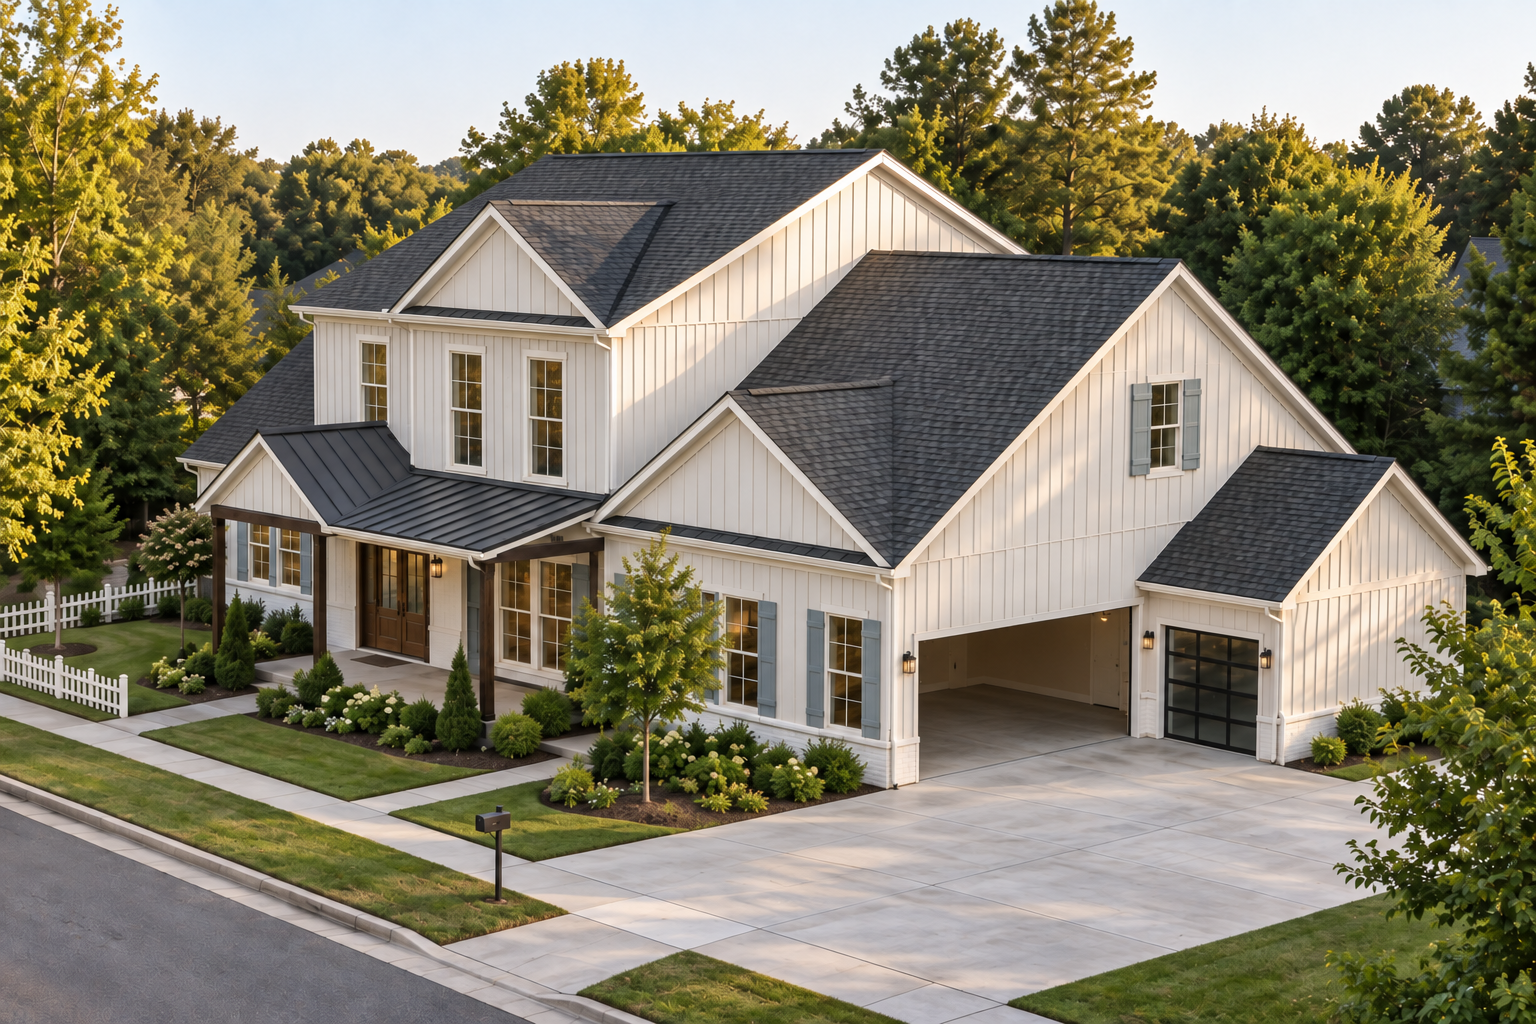
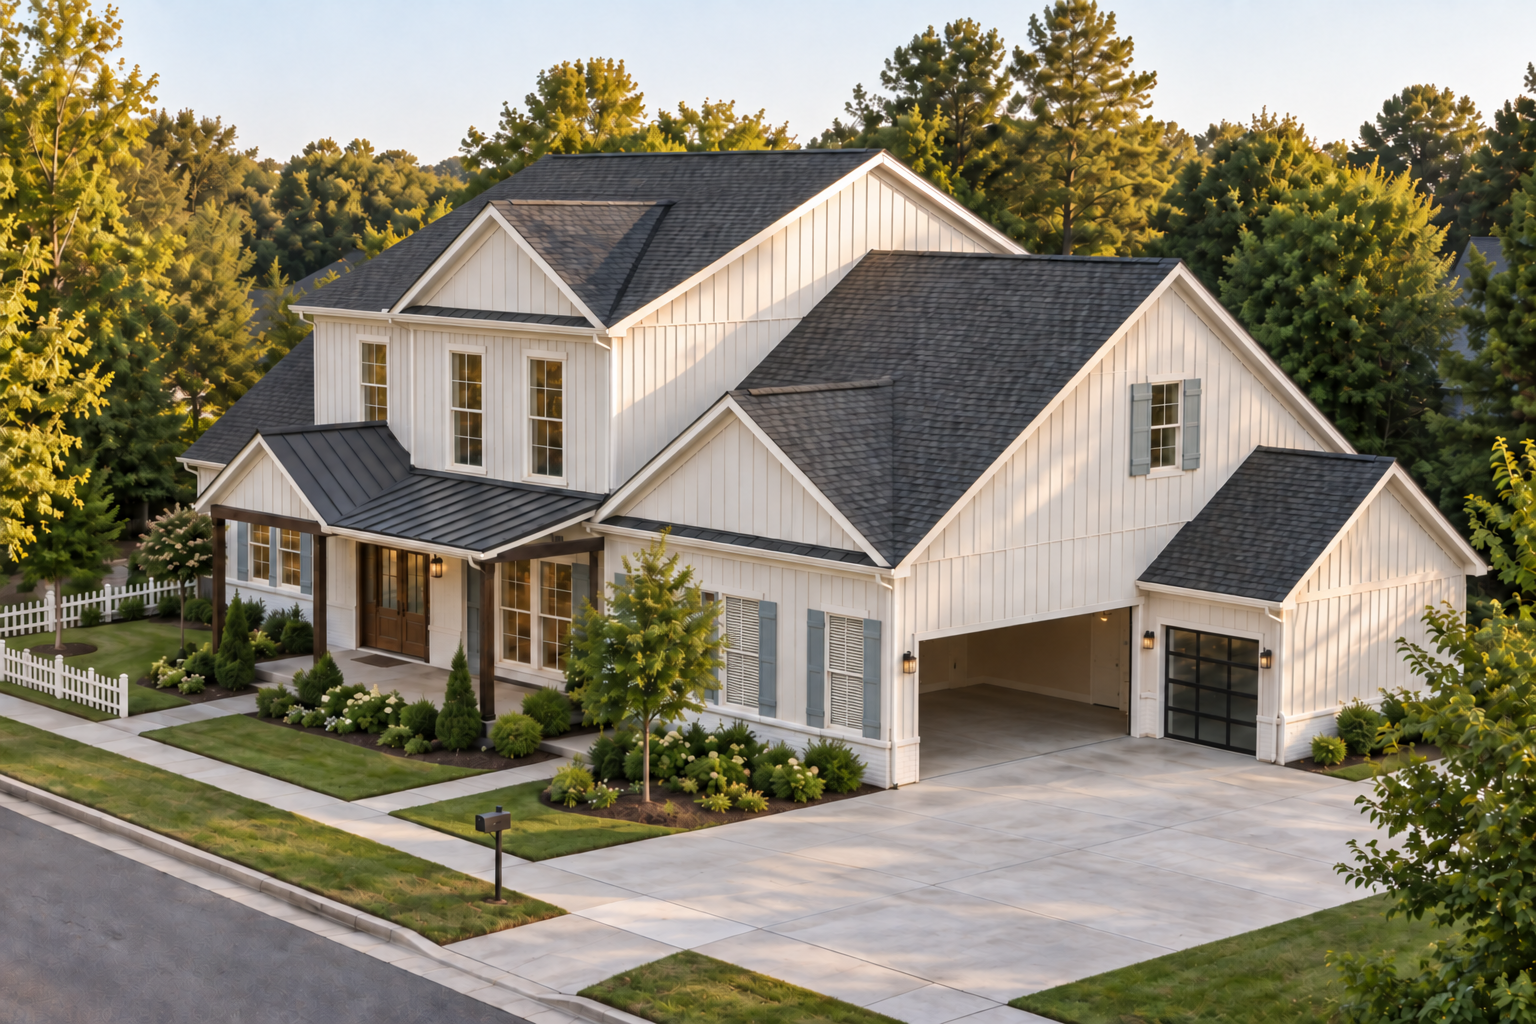
fix(house): close garage window blinds in day and night views

diff --git a/chauffeur/static/house_hybrid/garage-blinds-assets.md b/chauffeur/static/house_hybrid/garage-blinds-assets.md
@@ -1,0 +1,19 @@
+# Garage window blinds
+
+Built-in ImageGen edits, 2026-09-26. Supersedes the previous attempt to depict utility storage through these windows.
+
+Saved outputs in this directory:
+
+- `exterior-model-full-block-empty.png`: closed neutral blinds by day.
+- `exterior-model-full-block-empty-night.png`: closed blinds with diffuse warm glow at night.
+
+Both are the base artwork used for every parking combination. Existing vehicle masks cover only the garage opening and driveway, leaving these windows supplied by the base.
+
+## Day edit prompt
+
+Use case: precise-object-edit. Input is EDIT TARGET, full house exterior artwork. Modify ONLY the TWO narrow ground-floor garage windows immediately LEFT of the open double garage bay, centered at approximately (48%,64%) and (55%,66%). Install fully lowered CLOSED horizontal Venetian blinds behind the existing glazing covering every pane from top to bottom. Slats must be tilted completely shut: absolutely NO interior view, furniture, pictures, decor, silhouettes or visible gaps into the room. Blinds must have clearly visible fine parallel horizontal slat lines, consistent across both windows. Keep existing mullions, trim and exterior shutters in front unchanged, and preserve foreground tree branches. Do not alter any other window. Keep entire remainder of image unchanged: camera, framing, building edges, roofs, lighting, garden, empty driveway and empty garage. Full-frame 1536x1024; no crop, labels or UI. Day: neutral off-white closed blinds, softly shaded behind glass, no artificial glow.
+
+## Night edit prompt
+
+Use case: precise-object-edit. Input is EDIT TARGET, full house exterior artwork. Modify ONLY the TWO narrow ground-floor garage windows immediately LEFT of the open double garage bay, centered at approximately (48%,64%) and (55%,66%). Install fully lowered CLOSED horizontal Venetian blinds behind the existing glazing covering every pane from top to bottom. Slats must be tilted completely shut: absolutely NO interior view, furniture, pictures, decor, silhouettes or visible gaps into the room. Blinds must have clearly visible fine parallel horizontal slat lines, consistent across both windows. Keep existing mullions, trim and exterior shutters in front unchanged, and preserve foreground tree branches. Do not alter any other window. Keep entire remainder of image unchanged: camera, framing, building edges, roofs, lighting, garden, empty driveway and empty garage. Full-frame 1536x1024; no crop, labels or UI. Night: closed blinds softly backlit with a gentle uniform warm amber glow, dimmer than other house windows. Diffuse light only: no objects or silhouettes visible through the blinds.
+
